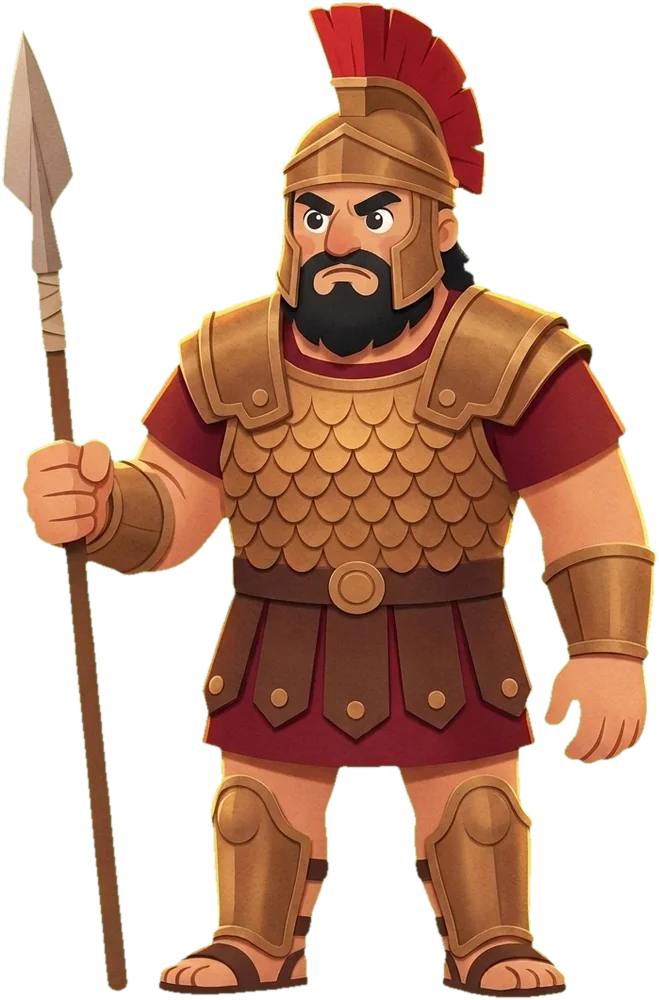
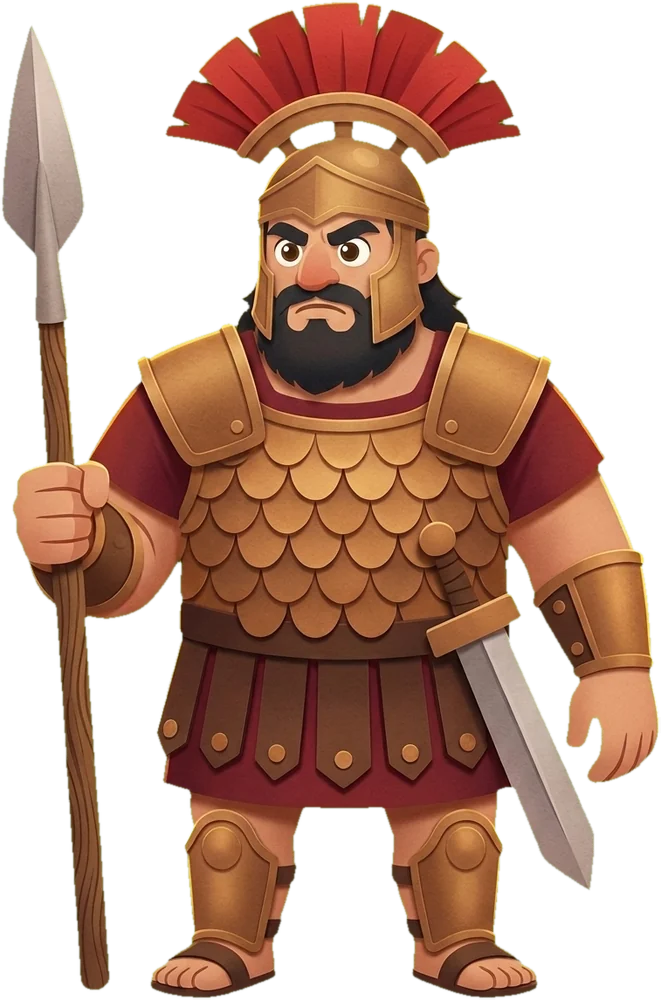
Regenerate Goliath bigger and fiercer; add strike, tree, grass, bird and fallen-giant layers
Goliath's sheet and his three layers regenerated as a bulkier, scowling
figure. The shepherd background is regenerated without its tree; the tree
is its own cutout split into trunk and canopy, plus a grass tuft and three
coloured birds as two-frame flipbooks. A fallen Goliath joins the victory
scene and a reuse-only strike scene manifest is added. find_eyes.py locates
eyes on a cutout for blink lids.

diff --git a/design/pipeline/find_eyes.py b/design/pipeline/find_eyes.py
@@ -1,0 +1,66 @@
+"""Locate eyes on a character cutout so the scene can place blink lids.
+
+    python design/pipeline/find_eyes.py <story> <scene> <name> [max_eyes] [top_fraction]
+
+Finds the near-white sclera blobs in the upper part of the cutout (teeth sit
+lower and are wide, so they are filtered out), prints one line per eye with
+its centre, a lid radius that covers the blob, and the skin tone sampled just
+below it. Output is JSON on stdout; paste into the scene's Eyelids props.
+"""
+import json
+import sys
+from collections import deque
+
+from PIL import Image
+
+from gen import ROOT
+
+if len(sys.argv) < 4:
+    sys.exit("usage: find_eyes.py <story> <scene> <name> [max_eyes] [top_fraction]")
+story, scene, name = sys.argv[1:4]
+max_eyes = int(sys.argv[4]) if len(sys.argv) > 4 else 2
+top_frac = float(sys.argv[5]) if len(sys.argv) > 5 else 0.45
+
+img = Image.open(ROOT / f"src/assets/scenes/{story}/{scene}/{name}.webp").convert("RGBA")
+w, h = img.size
+px = img.load()
+limit_y = int(h * top_frac)
+
+def is_white(x, y):
+    r, g, b, a = px[x, y]
+    return a > 200 and r > 200 and g > 200 and b > 190 and max(r, g, b) - min(r, g, b) < 40
+
+seen = set()
+blobs = []
+for y in range(limit_y):
+    for x in range(w):
+        if (x, y) in seen or not is_white(x, y):
+            continue
+        q = deque([(x, y)]); seen.add((x, y)); pts = []
+        while q:
+            cx, cy = q.popleft(); pts.append((cx, cy))
+            for nx, ny in ((cx+1, cy), (cx-1, cy), (cx, cy+1), (cx, cy-1)):
+                if 0 <= nx < w and 0 <= ny < limit_y and (nx, ny) not in seen and is_white(nx, ny):
+                    seen.add((nx, ny)); q.append((nx, ny))
+        if len(pts) < 25:
+            continue
+        xs = [p[0] for p in pts]; ys = [p[1] for p in pts]
+        bw = max(xs) - min(xs) + 1; bh = max(ys) - min(ys) + 1
+        if bw / bh > 2.4 or bh / bw > 2.4:
+            continue  # teeth, highlights on cloth
+        blobs.append({"cx": sum(xs) // len(xs), "cy": sum(ys) // len(ys), "bw": bw, "bh": bh, "n": len(pts)})
+
+blobs.sort(key=lambda b: -b["n"])
+eyes = sorted(blobs[:max_eyes], key=lambda b: b["cx"])
+
+def tone(cx, cy):
+    box = [px[x, y][:3] for x in range(max(0, cx-6), min(w, cx+6)) for y in range(max(0, cy-4), min(h, cy+4)) if px[x, y][3] > 200]
+    if not box:
+        return "#c88a5e"
+    return "#%02x%02x%02x" % tuple(sum(c[i] for c in box) // len(box) for i in range(3))
+
+out = []
+for e in eyes:
+    rx = e["bw"] // 2 + 3; ry = e["bh"] // 2 + 3
+    out.append({"point": [e["cx"], e["cy"]], "rx": rx, "ry": ry, "tone": tone(e["cx"], e["cy"] + ry + 6)})
+print(json.dumps({"name": name, "w": w, "h": h, "eyes": out}))

diff --git a/design/pipeline/README.md b/design/pipeline/README.md
@@ -34,6 +34,13 @@ enabled (image models have zero free-tier quota).
    `<name>-tail.webp` and `<name>-body.webp`, records its box and root corner
    in `layers.json`. The scene renders `Tail` before the body `Layer`. The
    original `<name>.webp` stays as the split's source and is not imported.
+   Works for any part with its own motion (a tree canopy on `a-sway-slow`);
+   the scene uses `Part` with the class it wants.
+6. `find_eyes.py <story> <scene> <name> [max_eyes] [top_fraction]` — locates
+   the eyes on a cutout (near-white sclera blobs in the upper part, teeth
+   filtered by aspect) and prints lid centres, radii and skin tone for
+   `Eyelids`. Three-quarter faces may need the far eye mirrored by hand;
+   always verify by rendering with the lids forced visible.
 
 ## What gets committed
 
